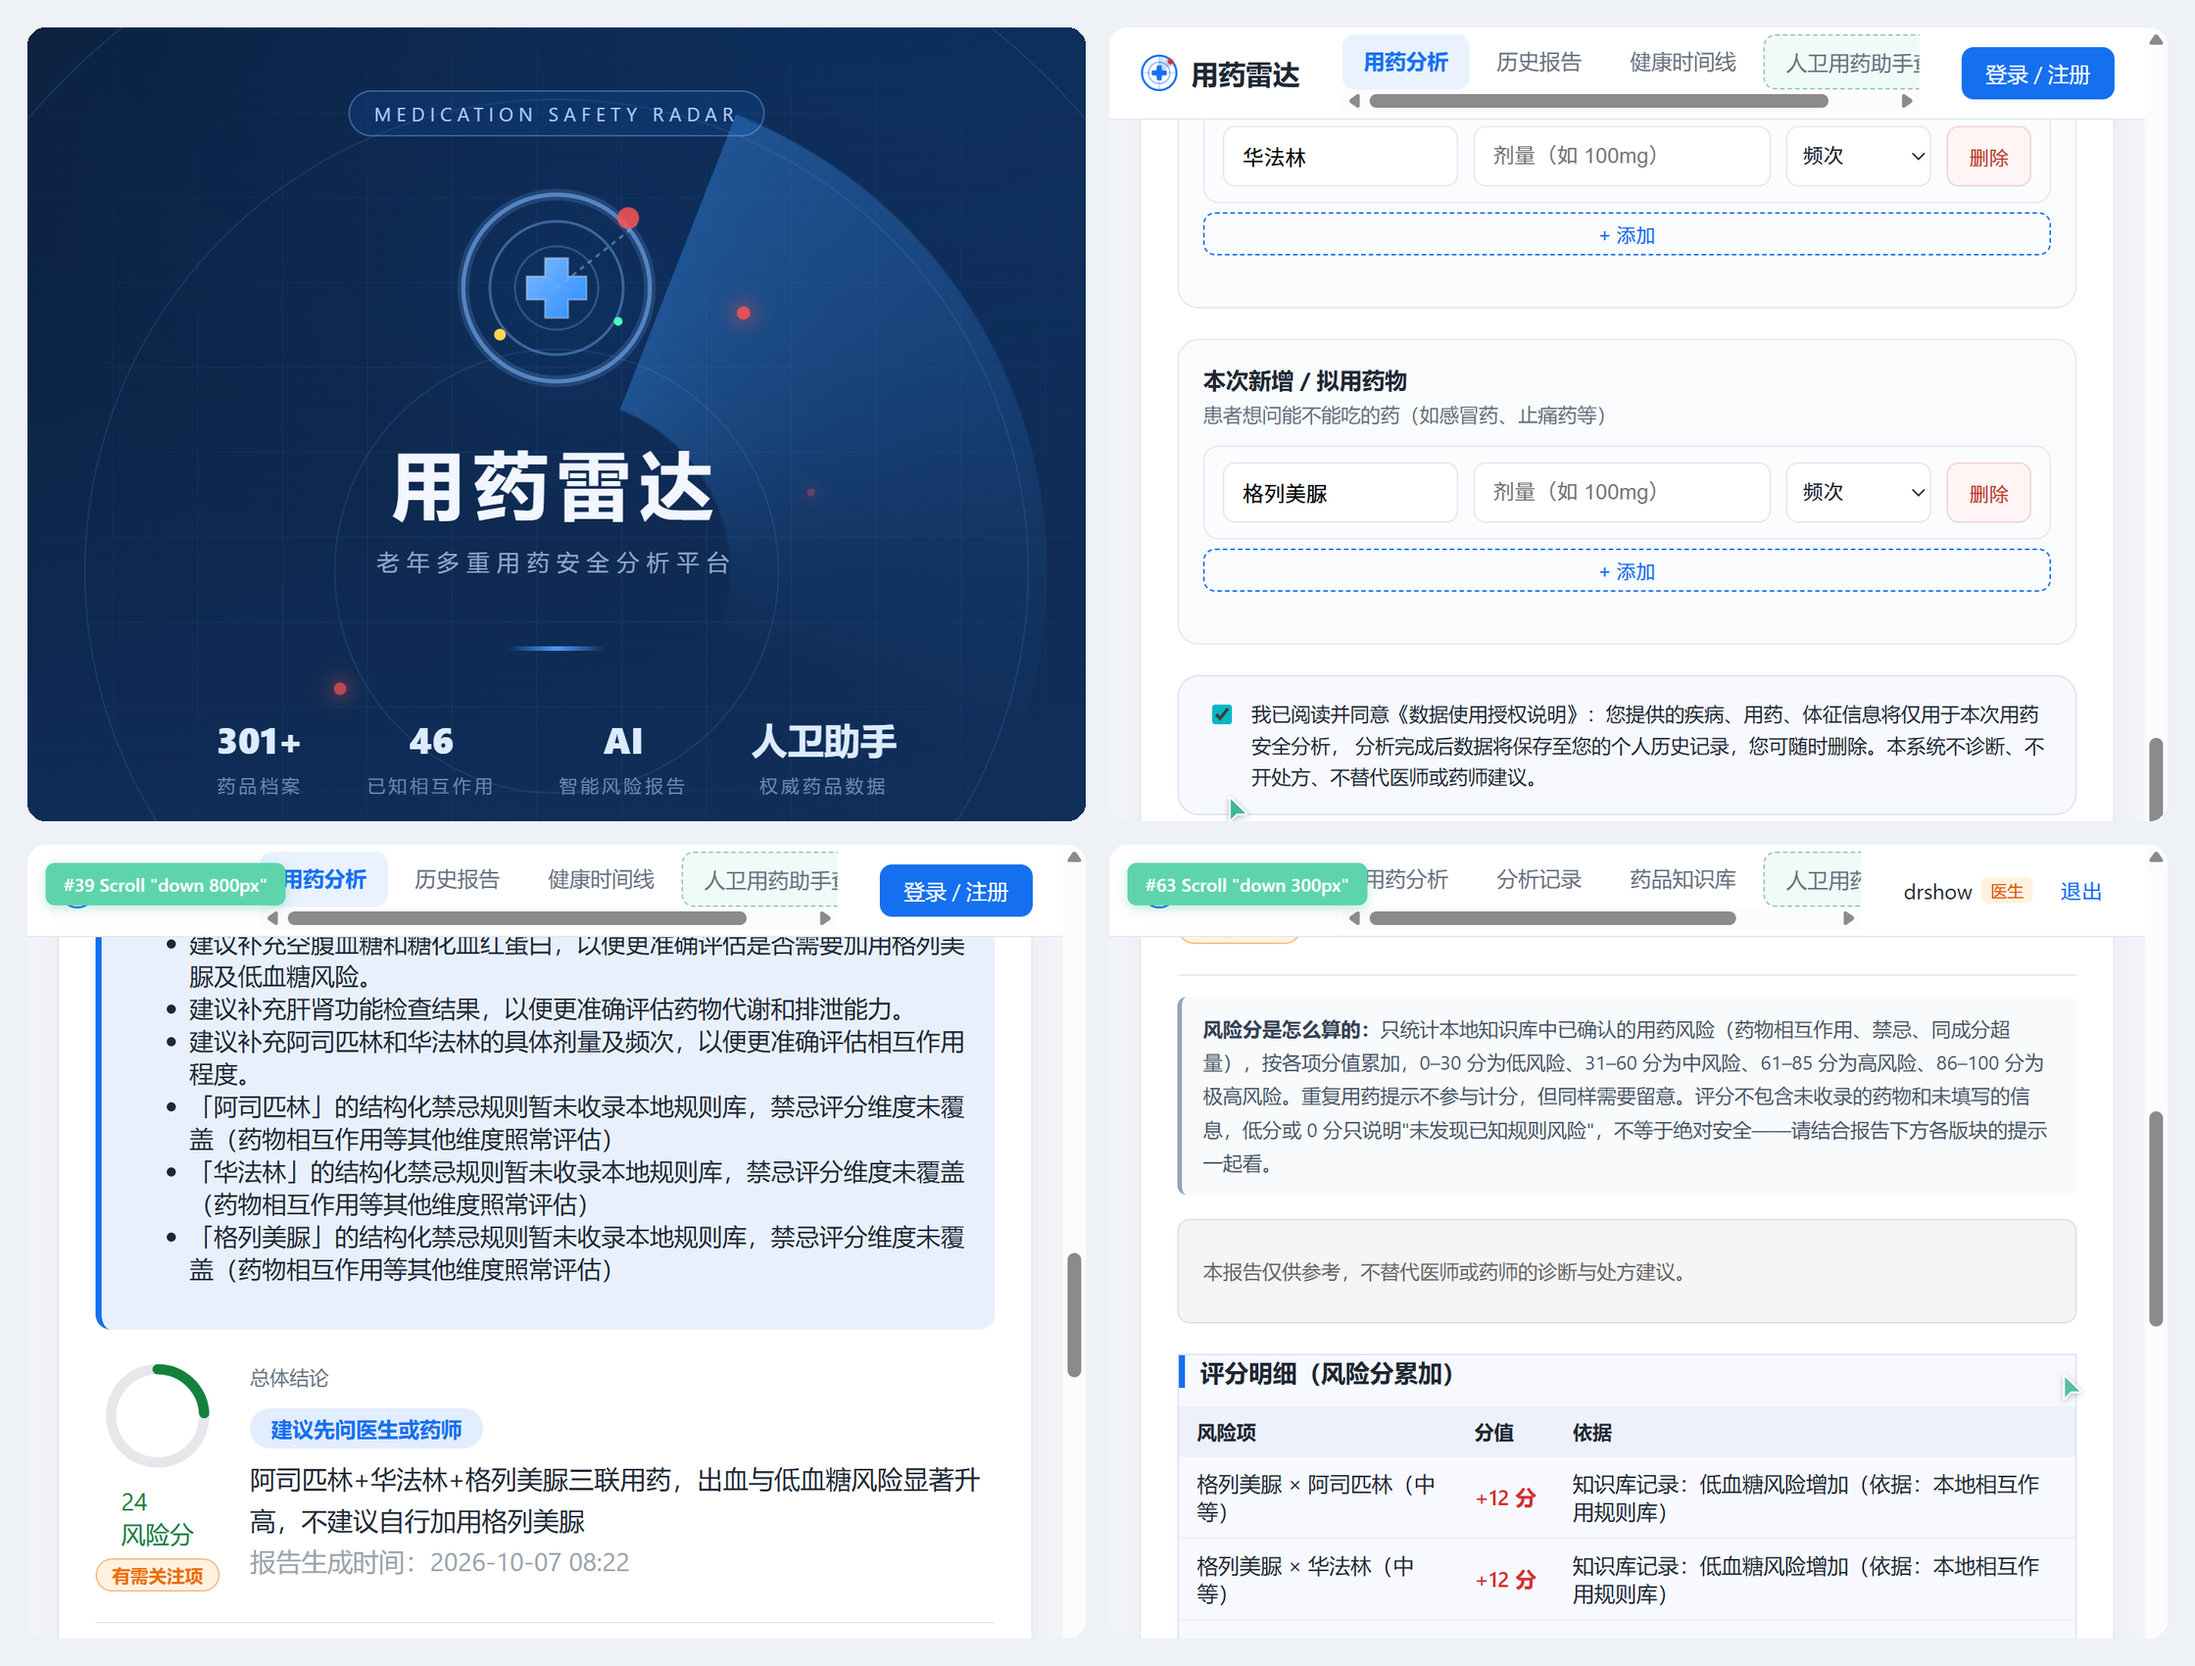
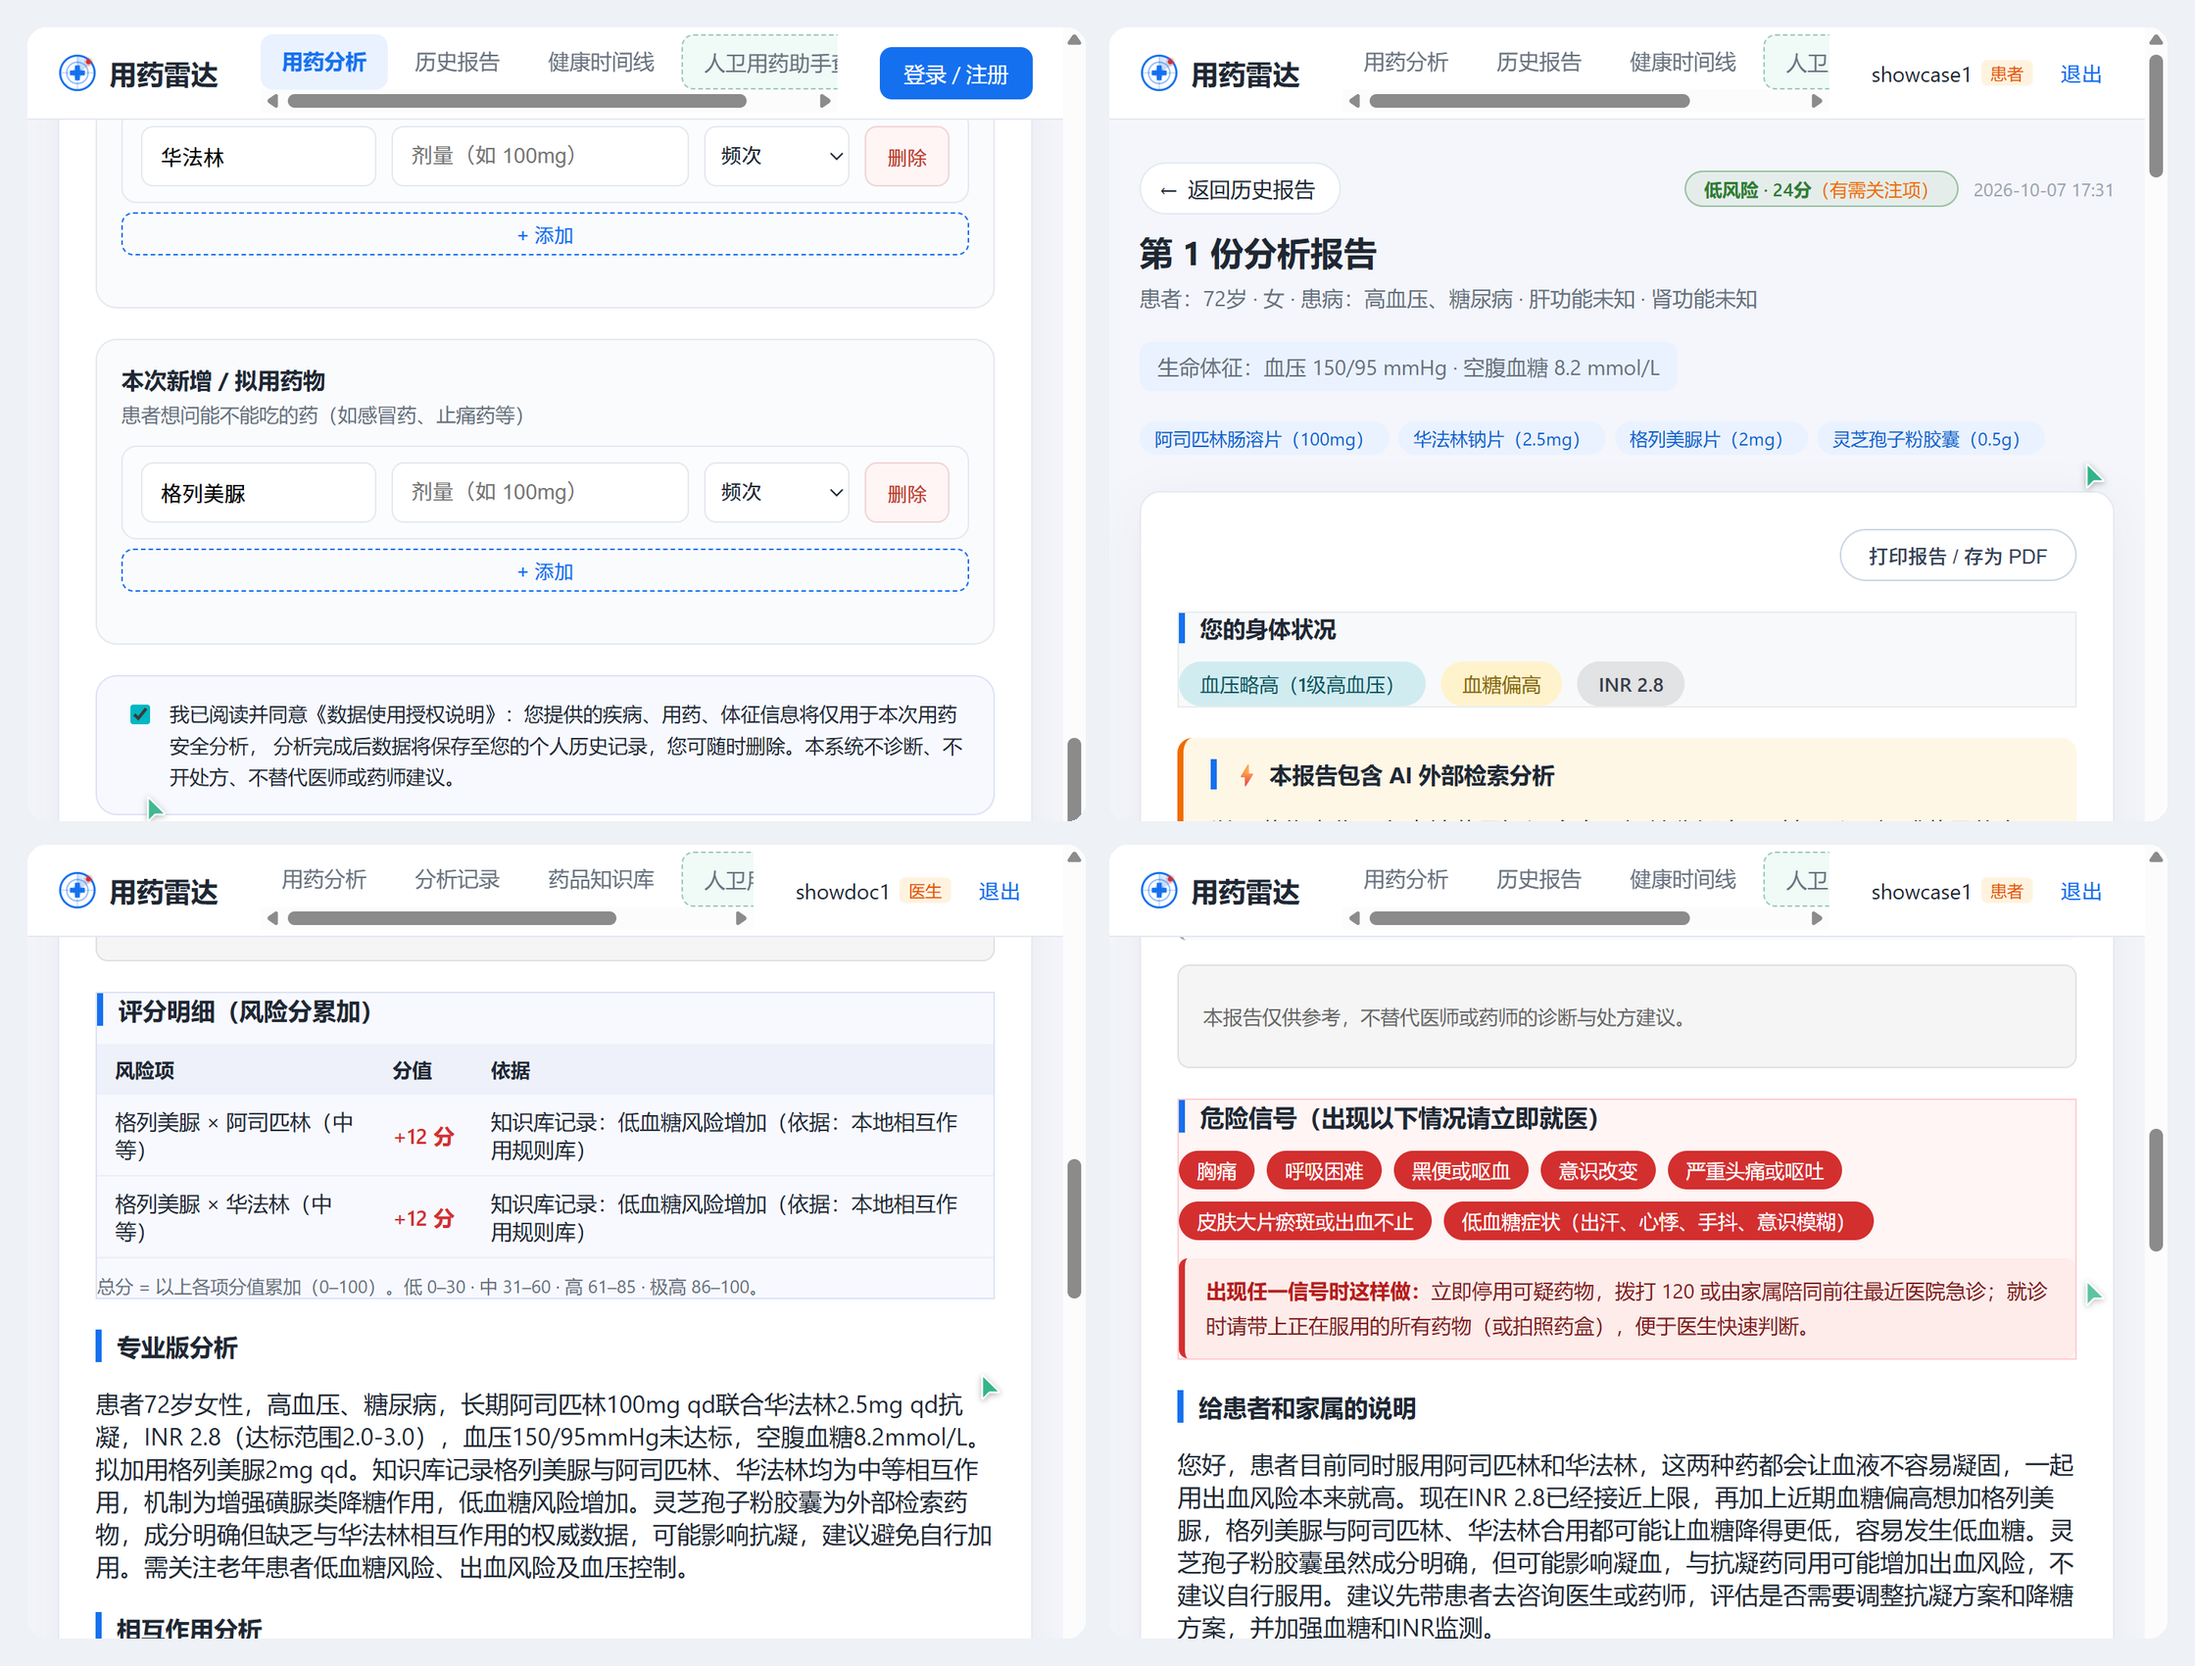
更新界面展示：修正技术栈标签，新增智能功能截图

diff --git a/docs/界面展示.md b/docs/界面展示.md
@@ -1,6 +1,8 @@
 # 用药雷达 · 界面展示
 
-> 老年多重用药安全分析平台。以下均为系统真实运行截图。
+> 老年多重用药安全分析平台。本地规则库 + DeepSeek 外部检索双引擎，患者 / 医生双视角分级风险报告。以下均为系统真实运行截图。
+
+**技术栈**：React 18 · Spring Boot 3 · MySQL 8 · Redis · DeepSeek LLM
 
 ## 界面总览
 
@@ -16,29 +18,29 @@
 
 ![用药分析 · 信息填写](images/02-analyze-form.png)
 
-### 3. 分析报告 · 患者视图
+### 3. 患者报告 · 风险评分与 AI 外部检索
 
-![分析报告 · 患者视图](images/03-report-patient.png)
+![患者报告 · 风险评分与 AI 外部检索](images/03-report-patient.png)
 
-### 4. 分析报告 · 医生专业视图
+### 4. 患者报告 · 危险信号与应急指引
 
-![分析报告 · 医生专业视图](images/04-report-doctor.png)
+![患者报告 · 危险信号与应急指引](images/04-report-danger.png)
 
-### 5. 登录 / 注册
+### 5. 患者报告 · 家属说明与严重相互作用警示
 
-![登录 / 注册](images/05-login.png)
+![患者报告 · 家属说明与严重相互作用警示](images/05-report-family.png)
 
-### 6. 历史报告列表
+### 6. 医生视图 · 评分明细与专业分析
 
-![历史报告列表](images/06-history.png)
+![医生视图 · 评分明细与专业分析](images/06-report-doctor.png)
 
-### 7. 药品知识库
+### 7. 医生视图 · 风险评分规则与依据
 
-![药品知识库](images/07-knowledge.png)
+![医生视图 · 风险评分规则与依据](images/07-doctor-rules.png)
 
-### 8. 健康时间线
+### 8. 药品知识库
 
-![健康时间线](images/08-timeline.png)
+![药品知识库](images/08-knowledge.png)
 
 ### 9. 药品详情页
 
